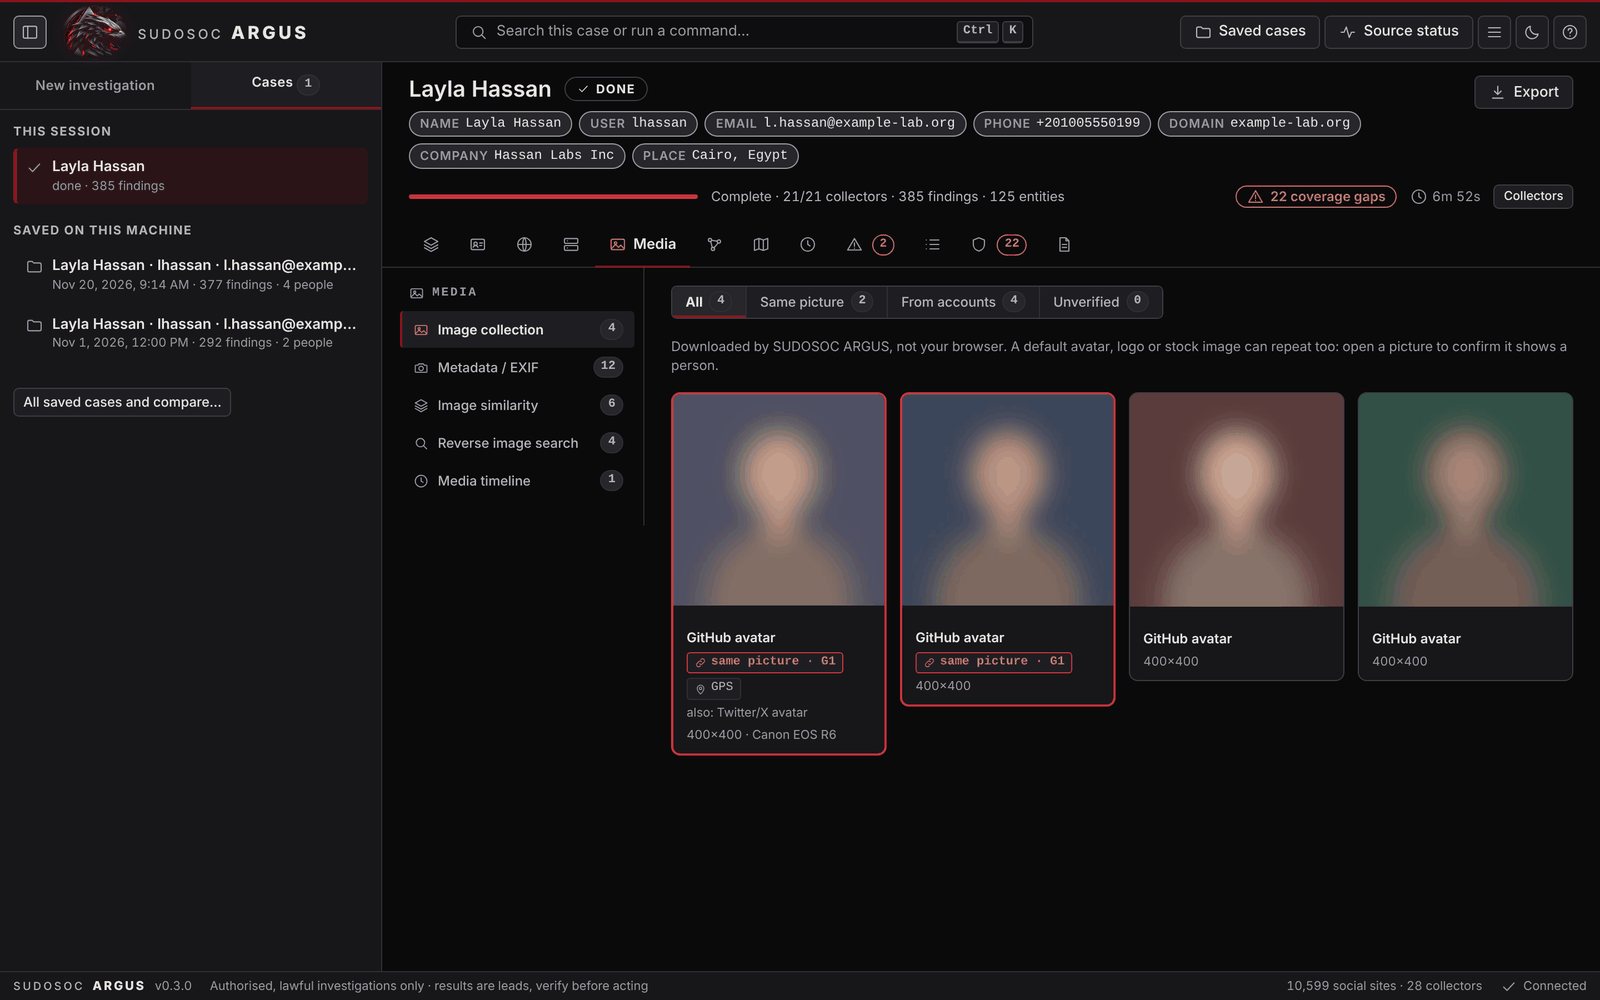
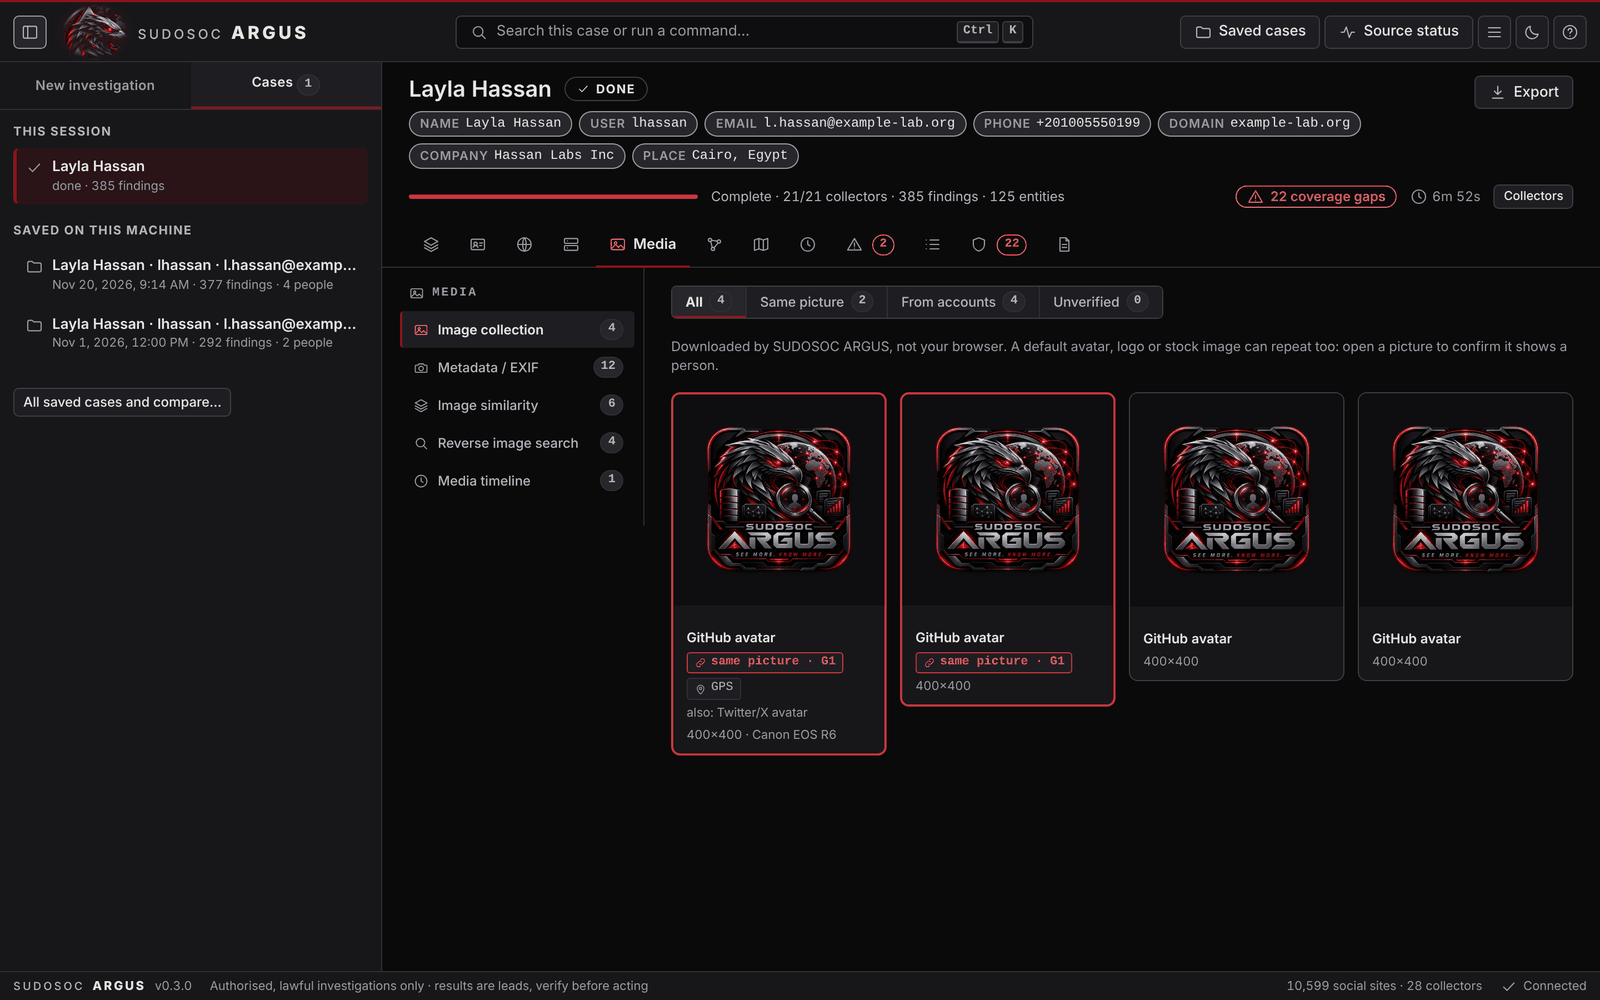
Emblem placeholder for pictures that cannot be loaded; new Media screenshot

Changed region(s): [[0.4062, 0.372, 1.0, 0.62], [0.7812, 0.186, 0.875, 0.217]]

diff --git a/internal/web/static/js/v-photos.js b/internal/web/static/js/v-photos.js
@@ -13,7 +13,7 @@
     const ph = el("div", { class: "ph" }, el("span", { class: "ph-load", text: "loading…" }));
     const img = el("img", { src: UI.imgSrc(p.url), alt: "picture" });
     img.addEventListener("load", () => ph.replaceChildren(img));
-    img.addEventListener("error", () => ph.replaceChildren(el("span", { class: "ph-off", title: "The picture could not be loaded right now; open it for its source and fingerprint" }, UI.icon("image", "big"))));
+    img.addEventListener("error", () => ph.replaceChildren(el("img", { class: "ph-off", src: "/img/argus-placeholder.webp", alt: "", title: "The picture could not be loaded right now; open it for its source and fingerprint" })));
     const cap = el("div", { class: "cap" }, el("div", { class: "src", text: UI.clip((p.sources && p.sources[0]) || "picture", 70).replace(/^[a-z]+: /, "") }));
     const tags = el("div", { class: "tags" });
     if (p.group) tags.append(el("span", { class: "tag same" }, UI.icon("link"), "same picture · G" + p.group));

diff --git a/internal/web/static/css/views.css b/internal/web/static/css/views.css
@@ -346,4 +346,4 @@ tr.detail > td { background: var(--well); padding: var(--sp-3) var(--sp-4) var(-
 .revrow { display: flex; gap: var(--sp-3); align-items: center; }
 .revthumb { width: 72px; height: 72px; object-fit: cover; border-radius: var(--r-md); border: 1px solid var(--line); background: var(--well); }
 .revmain { display: grid; gap: 4px; min-width: 0; }
-.ph-off { display: grid; place-items: center; color: var(--text-3); } .ph-off .ic { width: 44px; height: 44px; opacity: .55; }
+.tile .ph img.ph-off { object-fit: contain; padding: 14%; opacity: .9; }

diff --git a/README.md b/README.md
@@ -12,7 +12,7 @@ At a glance: **10,600+ username sites** (WhatsMyName + Sherlock + Maigret, in th
 
 ## Screenshots
 
-All screenshots show a **synthetic demonstration case** (an invented person and `example` domains); nothing in them is real data. (Pictures are blurred in the screenshots for privacy; ARGUS shows them sharp.) The first three are the first-use flow, then one image per main view.
+All screenshots show a **synthetic demonstration case** (an invented person and `example` domains); nothing in them is real data. (Where a picture cannot be loaded, ARGUS shows its emblem as a placeholder; in the capture environment no pictures could be fetched, so the Media screenshot shows placeholders.) The first three are the first-use flow, then one image per main view.
 
 | | |
 |---|---|
